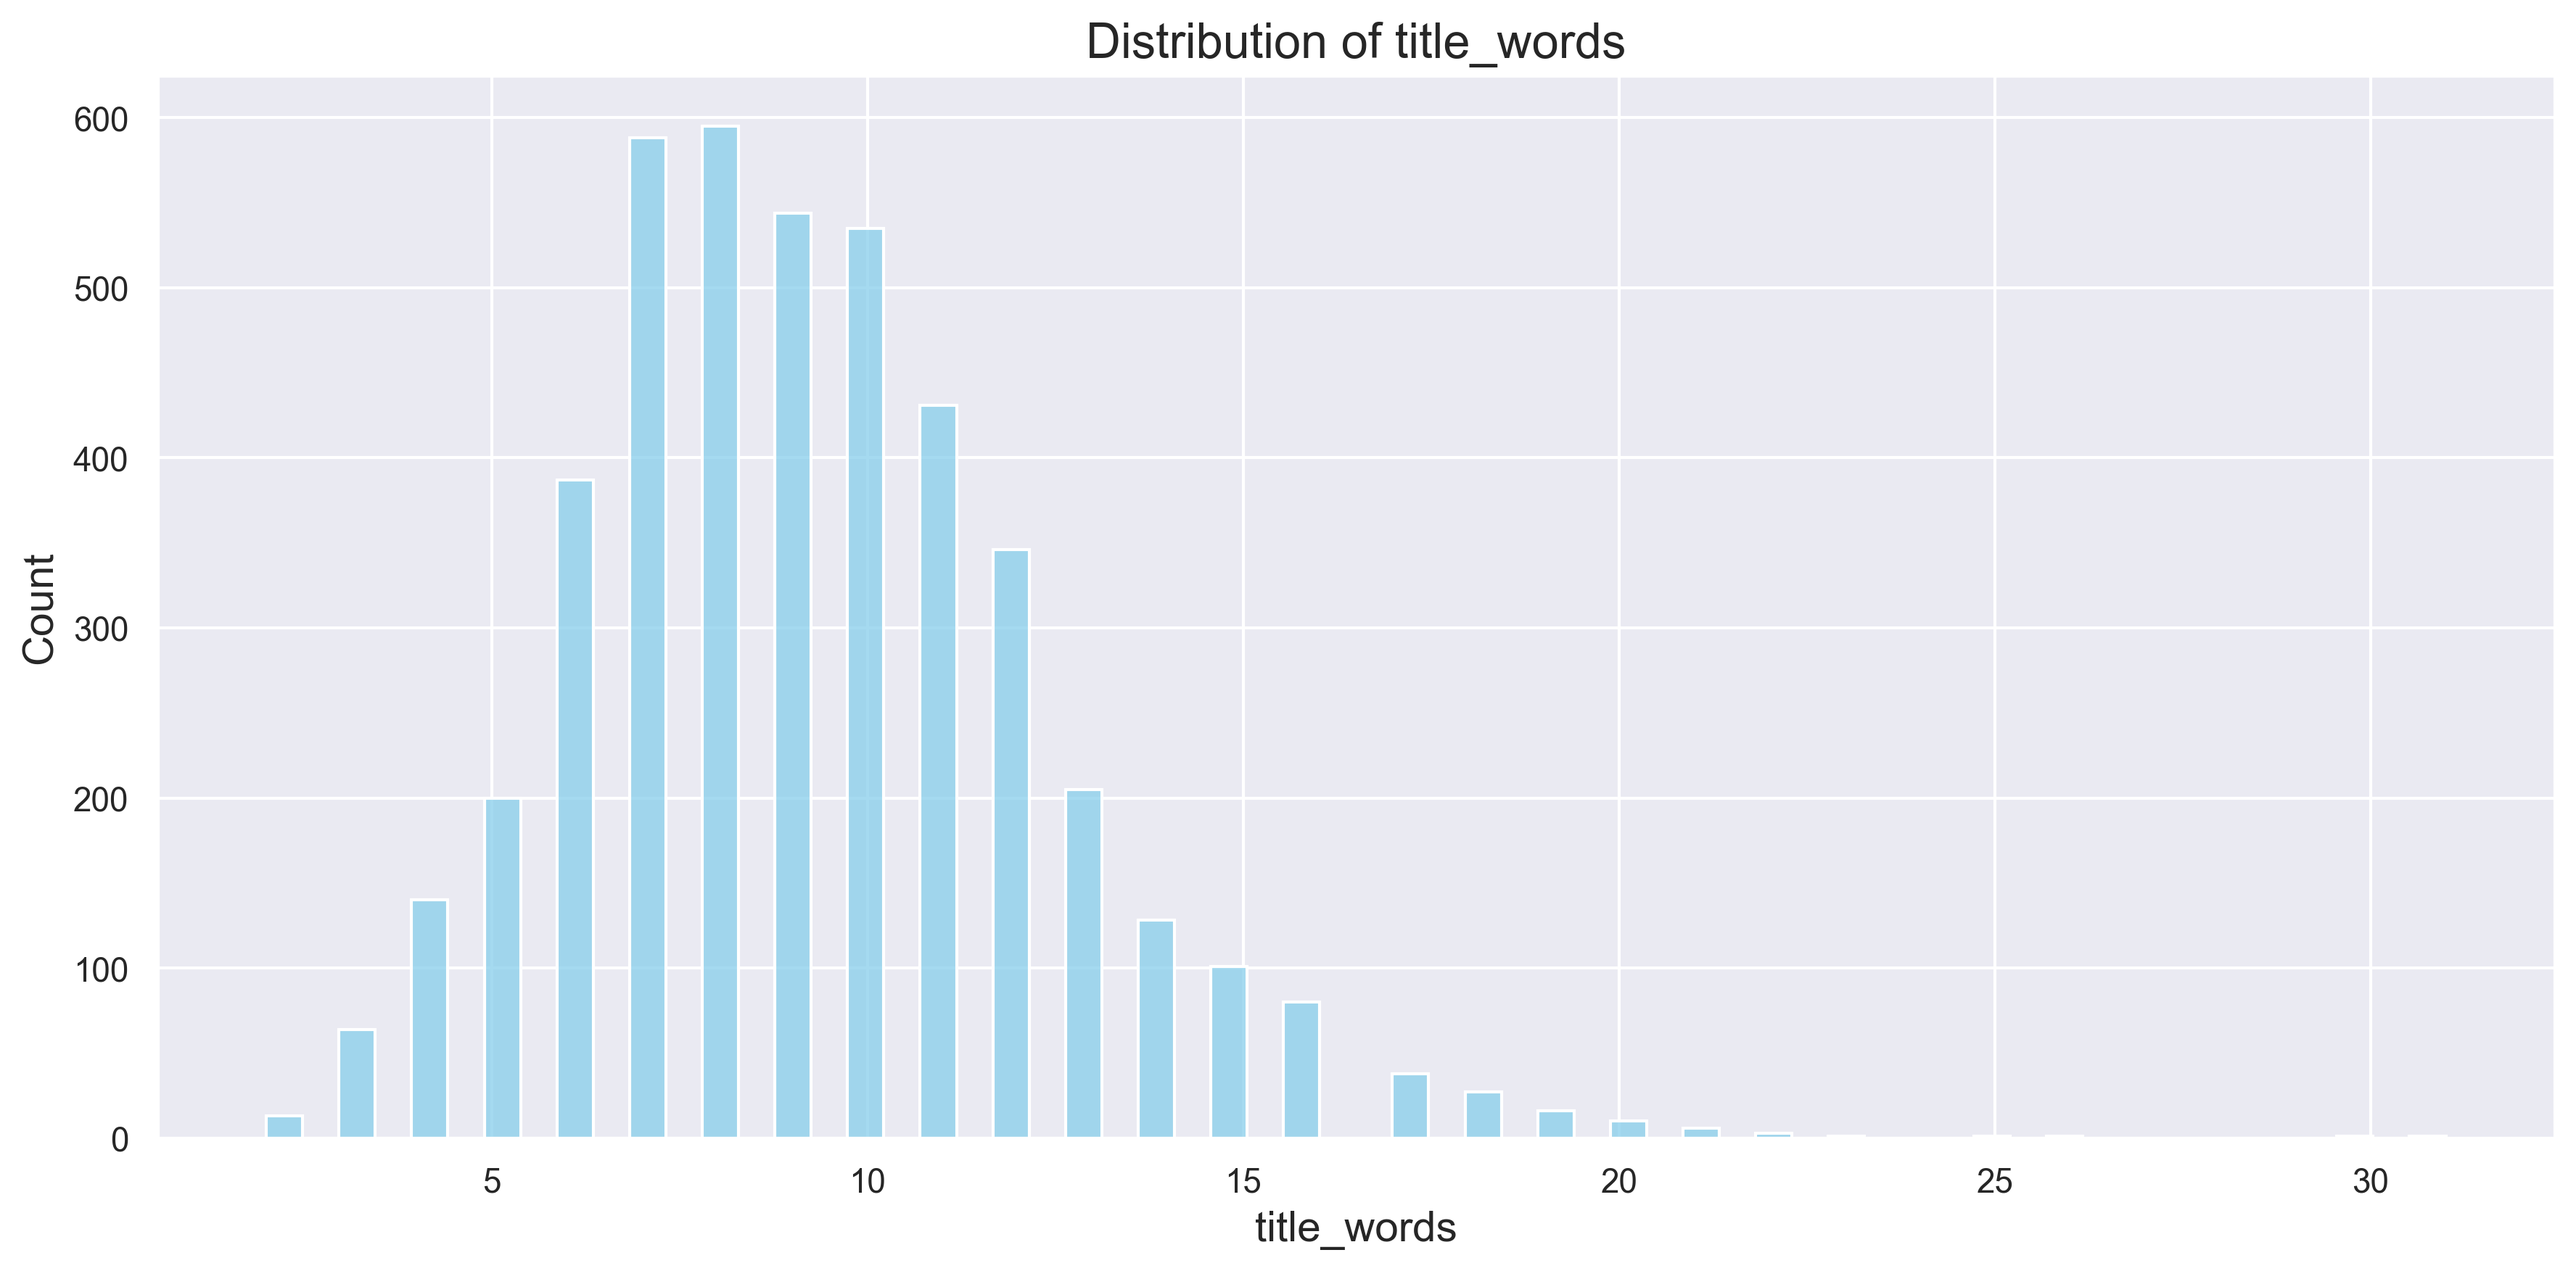
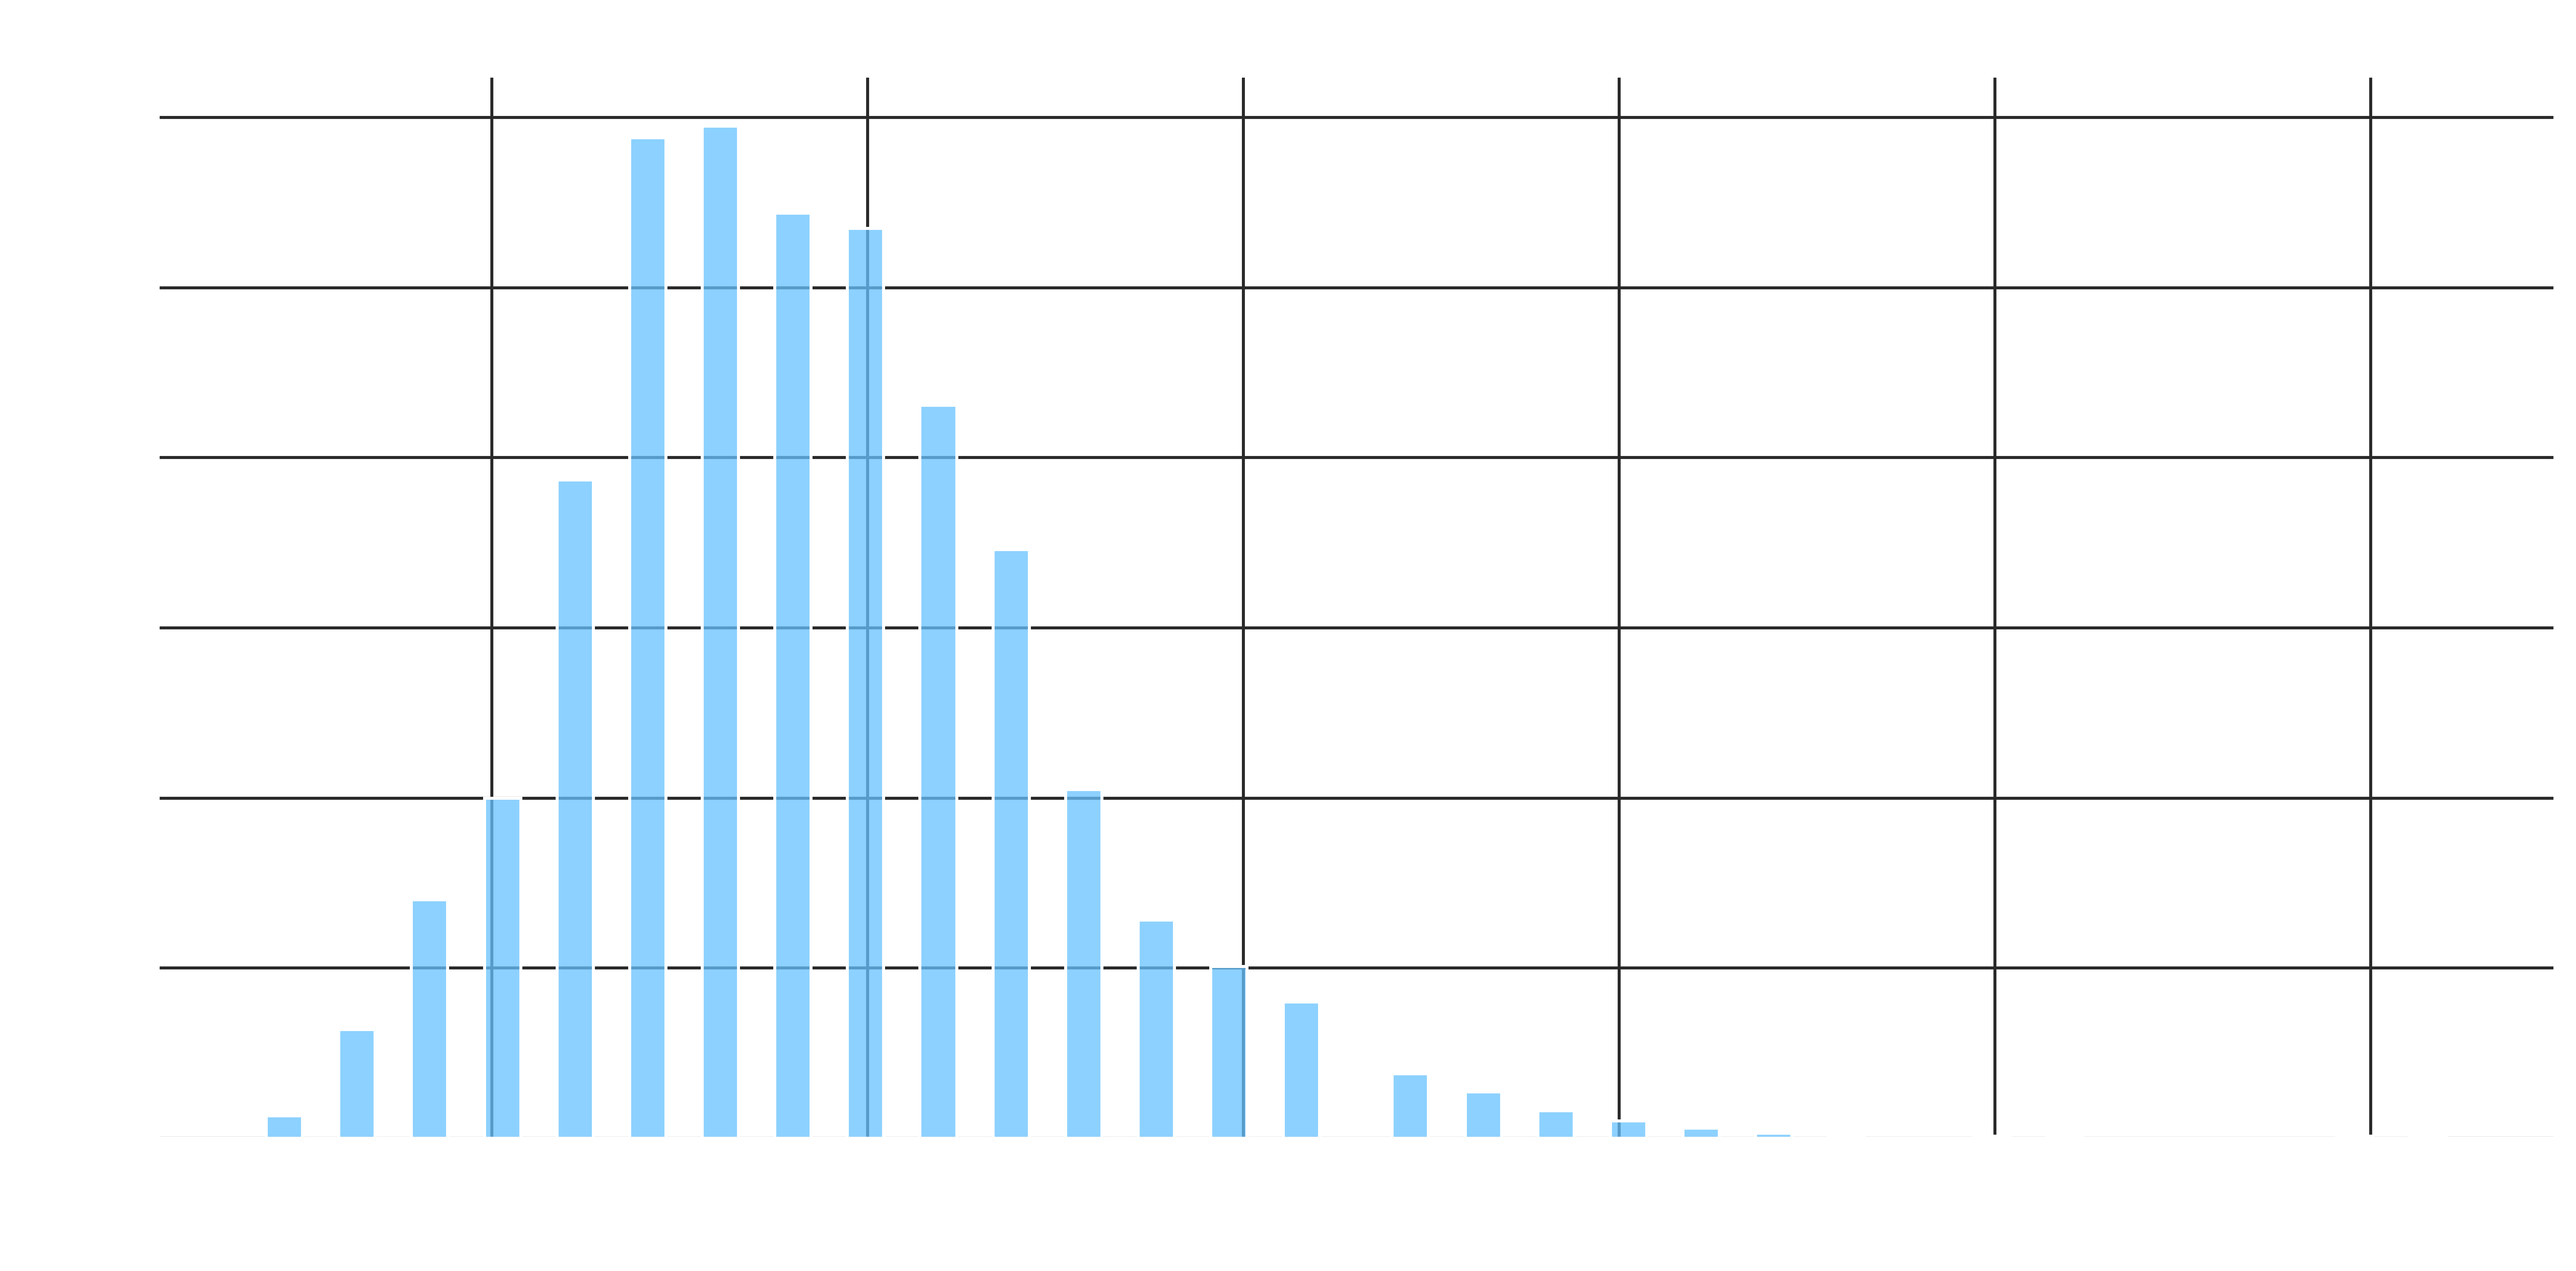
Update eda and add evaluation for embedding model

diff --git a/src/data_processing/eda.py b/src/data_processing/eda.py
@@ -28,11 +28,32 @@ def setup_font(cfg):
     else:
         font = "sans-serif"
         cfg.font_family = "sans-serif"
-    # TODO: Currently falling back to sans-serif every time and i dont know why
     print(f"Loaded font family: {font}")
     plt.rcParams["font.family"] = font
     plt.rcParams["font.size"] = cfg.font_size
 
+
+def setup_dark_theme_transparent():
+    """
+    Set up the dark theme with a transparent background for Seaborn and Matplotlib.
+    """
+    sns.set_theme(style="darkgrid", palette="deep")
+
+    # Matplotlib customizations for a dark theme with transparency
+    plt.rcParams.update({
+        "text.color": "white",
+        "axes.labelcolor": "white",
+        "xtick.color": "white",
+        "ytick.color": "white",
+        "axes.facecolor": "none",  # Transparent plot background
+        "axes.edgecolor": "white",
+        "figure.facecolor": "none",  # Transparent figure background
+        "grid.color": "#2a2a2a",  # Darker grid lines
+        "axes.grid": True,
+        "font.size": 12,
+        "legend.facecolor": "none",  # Transparent legend background
+        "savefig.transparent": True,  # Transparent background when saving
+    })
 
 def custom_countplot(df, column, cfg, top_n=None, title=None):
     """
@@ -49,7 +70,8 @@ def custom_countplot(df, column, cfg, top_n=None, title=None):
         title (str, optional): Custom title for the plot. If None, a default title is used.
     """
     # Set the style for the plot
-    sns.set_theme(style=cfg.plot_style, palette=cfg.color_palette)
+    # sns.set_theme(style=cfg.plot_style, palette=cfg.color_palette)
+    setup_dark_theme_transparent()
 
     plt.figure(figsize=cfg.figure_size)
 
@@ -65,14 +87,15 @@ def custom_countplot(df, column, cfg, top_n=None, title=None):
 
     # Customize the plot
     if title is None:
-        plt.title(f"Distribution of {column}", fontsize=cfg.title_font_size)
+        plt.title(f"Distribution of {column}", fontsize=cfg.title_font_size, color="white")
     else:
-        plt.title(title, fontsize=cfg.title_font_size)
-    plt.xlabel(column, fontsize=cfg.label_font_size)
-    plt.ylabel("Count", fontsize=cfg.label_font_size)
+        plt.title(title, fontsize=cfg.title_font_size, color="white")
+    plt.xlabel(column, fontsize=cfg.label_font_size, color="white")
+    plt.ylabel("Count", fontsize=cfg.label_font_size, color="white")
 
     # Rotate x-axis labels if needed
-    plt.xticks(rotation=cfg.x_tick_rotation)
+    plt.xticks(rotation=cfg.x_tick_rotation, color="white")
+    plt.yticks(color="white")
 
     # Add value labels on top of each bar
     for p in ax.patches:
@@ -83,12 +106,13 @@ def custom_countplot(df, column, cfg, top_n=None, title=None):
             va="center",
             xytext=(0, 5),
             textcoords="offset points",
+            color="white"  # Text color for annotation
         )
 
-    # Save the plot
+    # Save the plot with transparency
     plt.tight_layout()
     filename = f'{column}_distribution{"_top_"+str(top_n) if top_n else ""}.png'
-    plt.savefig(os.path.join(cfg.eda_dir, filename), dpi=cfg.dpi, bbox_inches="tight")
+    plt.savefig(os.path.join(cfg.eda_dir, filename), dpi=cfg.dpi, bbox_inches="tight", transparent=True)
     plt.close()
 
 
@@ -105,8 +129,8 @@ def custom_histplot(df, column, cfg, title=None):
         cfg (EDAConfig): Configuration object containing plot settings.
         title (str, optional): Custom title for the plot. If None, a default title is used.
     """
-    # Set the style for the plot
-    sns.set_theme(style=cfg.plot_style, palette=cfg.color_palette)
+    # Apply the dark theme with transparency
+    setup_dark_theme_transparent()
 
     plt.figure(figsize=cfg.figure_size)
 
@@ -115,16 +139,16 @@ def custom_histplot(df, column, cfg, title=None):
 
     # Customize the plot
     if title is None:
-        plt.title(f"Distribution of {column}", fontsize=cfg.title_font_size)
+        plt.title(f"Distribution of {column}", fontsize=cfg.title_font_size, color="white")
     else:
-        plt.title(title, fontsize=cfg.title_font_size)
-    plt.xlabel(column, fontsize=cfg.label_font_size)
-    plt.ylabel("Count", fontsize=cfg.label_font_size)
+        plt.title(title, fontsize=cfg.title_font_size, color="white")
+    plt.xlabel(column, fontsize=cfg.label_font_size, color="white")
+    plt.ylabel("Count", fontsize=cfg.label_font_size, color="white")
 
-    # Save the plot
+    # Save the plot with transparency
     plt.tight_layout()
     filename = f'{column}_distribution.png'
-    plt.savefig(os.path.join(cfg.eda_dir, filename), dpi=cfg.dpi, bbox_inches="tight")
+    plt.savefig(os.path.join(cfg.eda_dir, filename), dpi=cfg.dpi, bbox_inches="tight", transparent=True)
     plt.close()
 
 def custom_wordcloud(df, column, cfg, title=None, remove_stopwords=True):
@@ -146,7 +170,8 @@ def custom_wordcloud(df, column, cfg, title=None, remove_stopwords=True):
     import matplotlib.pyplot as plt
 
     # Set the style for the plot
-    sns.set_theme(style=cfg.plot_style, palette=cfg.color_palette)
+    # sns.set_theme(style=cfg.plot_style, palette=cfg.color_palette)
+    setup_dark_theme_transparent()
 
     plt.figure(figsize=cfg.figure_size)
 
@@ -175,7 +200,7 @@ def custom_wordcloud(df, column, cfg, title=None, remove_stopwords=True):
     # Save the plot
     plt.tight_layout()
     filename = f'{column}_wordcloud.png'
-    plt.savefig(os.path.join(cfg.eda_dir, filename), dpi=cfg.dpi, bbox_inches="tight")
+    plt.savefig(os.path.join(cfg.eda_dir, filename), dpi=cfg.dpi, bbox_inches="tight", transparent=True)
     plt.close()
 
 def main():

diff --git a/src/eval/evaluate_retrieval.py b/src/eval/evaluate_retrieval.py
@@ -1,0 +1,66 @@
+import os
+from langchain_qdrant import QdrantVectorStore
+from langchain_community.embeddings import HuggingFaceEmbeddings
+import pandas as pd
+from tqdm import tqdm
+
+EMBEDDING_MODEL_NAME = "all-mpnet-base-v2"
+COLLECTION_NAME = "arxiv_papers_RecursiveCharacterTextSplitter"
+
+DATA_PATH = "data/qa_pairs.csv"
+
+
+def get_arxiv_ids(docs):
+    return [doc.metadata["arxiv_id"] for doc in docs]
+
+
+def main():
+    embedding_function = HuggingFaceEmbeddings(model_name=EMBEDDING_MODEL_NAME, model_kwargs={"device": "cuda"})
+    vectorstore = QdrantVectorStore.from_existing_collection(
+        collection_name=COLLECTION_NAME,
+        embedding=embedding_function,
+        url=os.getenv("QDRANT_URL"),
+    )
+    data_df = pd.read_csv(DATA_PATH)
+    results = []
+    for _, row in tqdm(data_df.iterrows()):
+        target_arxiv_id = str(row["arxiv_id"])
+        query = str(row["question"])
+        similar_papers = vectorstore.similarity_search(query, k=10)
+        arxiv_ids = get_arxiv_ids(similar_papers)
+        top_10 = arxiv_ids[:10]
+        top_5 = arxiv_ids[:5]
+        top_3 = arxiv_ids[:3]
+        top_1 = arxiv_ids[:1]
+        top_10_accuracy = target_arxiv_id in top_10
+        top_5_accuracy = target_arxiv_id in top_5
+        top_3_accuracy = target_arxiv_id in top_3
+        top_1_accuracy = target_arxiv_id in top_1
+        results.append(
+            {
+                "query": query,
+                "target_arxiv_id": target_arxiv_id,
+                "top_10": top_10,
+                "top_5": top_5,
+                "top_3": top_3,
+                "top_1": top_1,
+                "top_10_accuracy": top_10_accuracy,
+                "top_5_accuracy": top_5_accuracy,
+                "top_3_accuracy": top_3_accuracy,
+                "top_1_accuracy": top_1_accuracy,
+            }
+        )
+
+    results_df = pd.DataFrame(results)
+    top_10_accuracy = results_df["top_10_accuracy"].mean()
+    top_5_accuracy = results_df["top_5_accuracy"].mean()
+    top_3_accuracy = results_df["top_3_accuracy"].mean()
+    top_1_accuracy = results_df["top_1_accuracy"].mean()
+    print(f"Top 10 accuracy: {top_10_accuracy*100:.2f}%")
+    print(f"Top 5 accuracy: {top_5_accuracy*100:.2f}%")
+    print(f"Top 3 accuracy: {top_3_accuracy*100:.2f}%")
+    print(f"Top 1 accuracy: {top_1_accuracy*100:.2f}%")
+
+
+if __name__ == "__main__":
+    main()

diff --git a/src/config.py b/src/config.py
@@ -24,13 +24,13 @@ class EDAConfig(Config):
 
         # Other configurations for custom countplot
         self.plot_style = "darkgrid"
-        self.color_palette = "dark"
+        self.color_palette = "deep"  # Better contrast for a dark theme
+        self.primary_color = "#66c2ff"  # Lighter blue matching the bar color
         self.font_size = 12
         self.figure_size = (12, 6)
-        self.primary_color = "skyblue"
         self.title_font_size = 16
         self.label_font_size = 14
-        self.x_tick_rotation = 45
+        self.x_tick_rotation = 0  # Keep ticks horizontal as in your example
         self.dpi = 300
 
 
